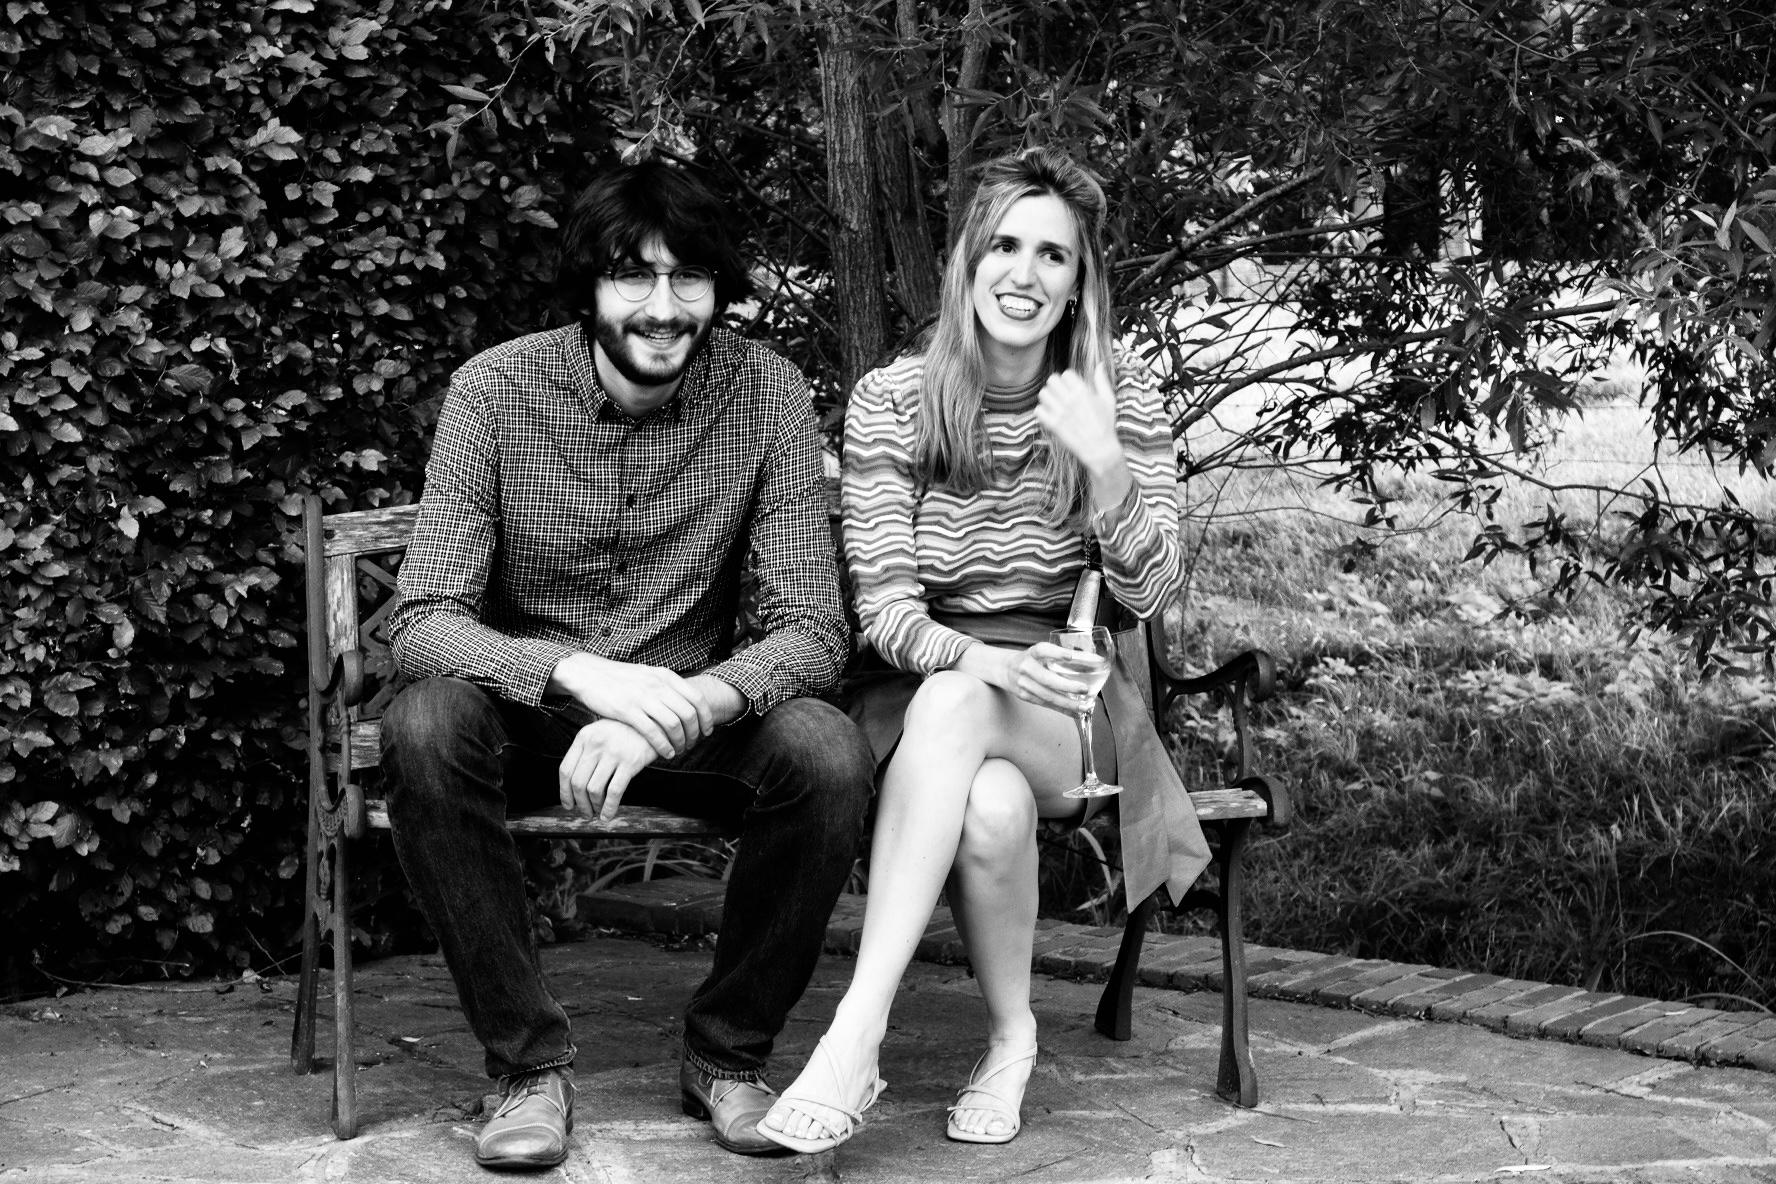
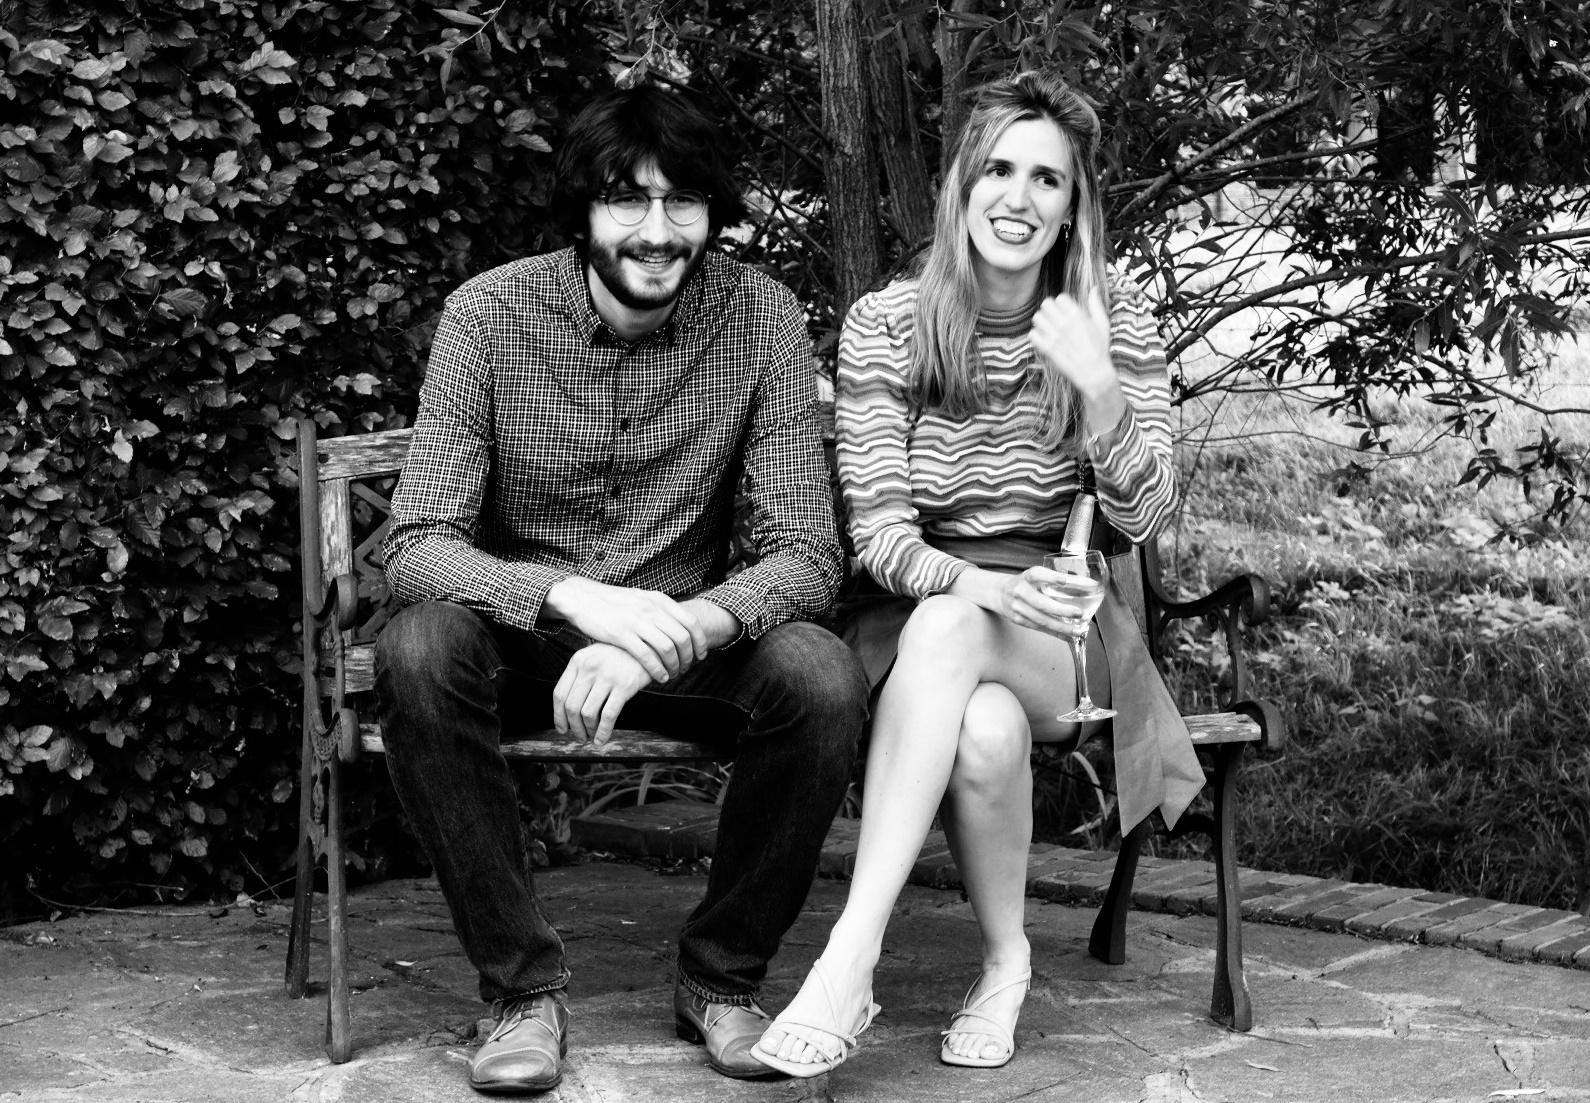
Update Pictures

diff --git a/index.html b/index.html
@@ -97,7 +97,7 @@
             height: 100%;
 
             /* Center and scale the image nicely */
-            background-position: left;
+            background-position: center;
             background-repeat: no-repeat;
             background-size: cover;
         }
